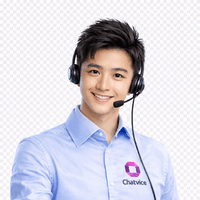
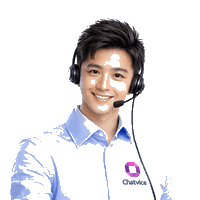
Update button styles and improve background removal functionality
Update UI elements with gradient animations, fix image template sizes, and enhance the background removal API for better error handling and model compatibility.

Replit-Commit-Author: Agent
Replit-Commit-Session-Id: d37a22ac-a57e-4e91-8ef6-db2cbe8198c3
Replit-Commit-Checkpoint-Type: full_checkpoint
Replit-Commit-Event-Id: d9524092-deb6-4b20-bde3-1af81761abbf

diff --git a/client/src/pages/dashboard/widget.tsx b/client/src/pages/dashboard/widget.tsx
@@ -1081,26 +1081,38 @@ async function handleLogin() {
                                 Remove custom icon
                               </Button>
                               <div className="flex flex-wrap gap-2">
-                                <Button
-                                  variant="outline"
-                                  size="sm"
+                                <button
                                   onClick={() => handleFlipImage("horizontal")}
                                   disabled={isProcessingImage}
                                   data-testid="button-flip-horizontal"
+                                  className="relative inline-flex items-center justify-center px-3 py-1.5 text-xs font-medium text-white rounded-md overflow-hidden disabled:opacity-50 disabled:cursor-not-allowed group"
+                                  style={{
+                                    background: 'linear-gradient(135deg, #7c3aed 0%, #a855f7 50%, #7c3aed 100%)',
+                                    backgroundSize: '200% 200%',
+                                    animation: 'gradient-shift 3s ease infinite',
+                                  }}
                                 >
-                                  {isProcessingImage ? <Loader2 className="w-3 h-3 animate-spin mr-1" /> : <ArrowUpRight className="w-3 h-3 mr-1 -scale-x-100" />}
-                                  Flip H
-                                </Button>
-                                <Button
-                                  variant="outline"
-                                  size="sm"
+                                  <span className="relative z-10 flex items-center">
+                                    {isProcessingImage ? <Loader2 className="w-3 h-3 animate-spin mr-1" /> : <ArrowUpRight className="w-3 h-3 mr-1 -scale-x-100" />}
+                                    Flip Horizontal
+                                  </span>
+                                </button>
+                                <button
                                   onClick={() => handleFlipImage("vertical")}
                                   disabled={isProcessingImage}
                                   data-testid="button-flip-vertical"
+                                  className="relative inline-flex items-center justify-center px-3 py-1.5 text-xs font-medium text-white rounded-md overflow-hidden disabled:opacity-50 disabled:cursor-not-allowed group"
+                                  style={{
+                                    background: 'linear-gradient(135deg, #7c3aed 0%, #a855f7 50%, #7c3aed 100%)',
+                                    backgroundSize: '200% 200%',
+                                    animation: 'gradient-shift 3s ease infinite',
+                                  }}
                                 >
-                                  {isProcessingImage ? <Loader2 className="w-3 h-3 animate-spin mr-1" /> : <ArrowUpRight className="w-3 h-3 mr-1 -scale-y-100" />}
-                                  Flip V
-                                </Button>
+                                  <span className="relative z-10 flex items-center">
+                                    {isProcessingImage ? <Loader2 className="w-3 h-3 animate-spin mr-1" /> : <ArrowUpRight className="w-3 h-3 mr-1 -scale-y-100" />}
+                                    Flip Vertical
+                                  </span>
+                                </button>
                                 <Button
                                   variant="outline"
                                   size="sm"
@@ -1111,19 +1123,25 @@ async function handleLogin() {
                                   {isProcessingImage ? <Loader2 className="w-3 h-3 animate-spin mr-1" /> : <ImageIcon className="w-3 h-3 mr-1" />}
                                   To WebP
                                 </Button>
-                                <Button
-                                  variant="outline"
-                                  size="sm"
+                                <button
                                   onClick={handleRemoveBackground}
                                   disabled={isRemovingBg || (bgRemovalStatus !== null && bgRemovalStatus.limit >= 0 && bgRemovalStatus.used >= bgRemovalStatus.limit)}
                                   data-testid="button-remove-bg"
                                   title={bgRemovalStatus ? `${bgRemovalStatus.used}/${bgRemovalStatus.limit} used this month` : "Remove background"}
+                                  className="relative inline-flex items-center justify-center px-3 py-1.5 text-xs font-medium text-white rounded-md overflow-hidden disabled:opacity-50 disabled:cursor-not-allowed group"
+                                  style={{
+                                    background: 'linear-gradient(135deg, #7c3aed 0%, #ec4899 50%, #7c3aed 100%)',
+                                    backgroundSize: '200% 200%',
+                                    animation: 'gradient-shift 3s ease infinite',
+                                  }}
                                 >
-                                  {isRemovingBg ? <Loader2 className="w-3 h-3 animate-spin mr-1" /> : <Frame className="w-3 h-3 mr-1" />}
-                                  Remove BG {bgRemovalStatus && bgRemovalStatus.limit > 0 && (
-                                    <span className="text-[10px] opacity-70 ml-1">({bgRemovalStatus.limit - bgRemovalStatus.used})</span>
-                                  )}
-                                </Button>
+                                  <span className="relative z-10 flex items-center">
+                                    {isRemovingBg ? <Loader2 className="w-3 h-3 animate-spin mr-1" /> : <Frame className="w-3 h-3 mr-1" />}
+                                    Remove Background {bgRemovalStatus && bgRemovalStatus.limit > 0 && (
+                                      <span className="text-[10px] opacity-70 ml-1">({bgRemovalStatus.limit - bgRemovalStatus.used})</span>
+                                    )}
+                                  </span>
+                                </button>
                               </div>
                               {bgRemovalStatus && bgRemovalStatus.limit === 0 && (
                                 <p className="text-xs text-amber-600 dark:text-amber-400">
@@ -1148,7 +1166,7 @@ async function handleLogin() {
                       {/* Icon Templates Section */}
                       <div className="pt-3 border-t">
                         <Label className="text-sm font-medium mb-2 block">Choose from Templates</Label>
-                        <div className="grid grid-cols-5 gap-3">
+                        <div className="flex flex-wrap gap-3">
                           {[
                             { id: 'male-cs-blue-shirt', name: 'CS Blue Shirt' },
                             { id: 'male-cs-suit', name: 'CS Suit' },
@@ -1167,11 +1185,12 @@ async function handleLogin() {
                               key={template.id}
                               type="button"
                               className={cn(
-                                "relative aspect-square rounded-lg overflow-hidden border-2 transition-all w-full",
+                                "relative rounded-lg overflow-hidden border-2 transition-all flex-shrink-0",
                                 config.iconUrl === `/icon-templates/${template.id}.png`
                                   ? "border-primary ring-2 ring-primary/30"
                                   : "border-muted hover:border-primary/50"
                               )}
+                              style={{ width: '80px', height: '80px' }}
                               onClick={() => setConfig({ ...config, iconUrl: `/icon-templates/${template.id}.png` })}
                               title={template.name}
                               data-testid={`button-template-${template.id}`}
@@ -1519,17 +1538,18 @@ async function handleLogin() {
 
                       <div className="space-y-2">
                         <Label className="text-sm">Or Choose Avatar</Label>
-                        <div className="grid grid-cols-4 gap-3">
+                        <div className="flex flex-wrap gap-3">
                           {[1, 2, 3, 4, 5, 6, 7, 8].map((num) => (
                             <button
                               key={num}
                               type="button"
                               onClick={() => setConfig({ ...config, agentPhotoUrl: `/avatars/avatar-${num}.jpg` })}
-                              className={`relative aspect-square rounded-lg overflow-hidden border-2 transition-all hover:opacity-80 active:scale-95 w-full ${
+                              className={`relative rounded-lg overflow-hidden border-2 transition-all hover:opacity-80 active:scale-95 flex-shrink-0 ${
                                 config.agentPhotoUrl === `/avatars/avatar-${num}.jpg` 
                                   ? 'border-primary ring-2 ring-primary/30' 
                                   : 'border-muted hover:border-muted-foreground/50'
                               }`}
+                              style={{ width: '80px', height: '80px' }}
                               data-testid={`button-avatar-${num}`}
                             >
                               <img

diff --git a/server/routes.ts b/server/routes.ts
@@ -3794,7 +3794,7 @@ Sitemap: ${baseUrl}/sitemap.xml`;
       }
 
       const response = await ai.models.generateContent({
-        model: "gemini-2.5-flash-image",
+        model: "gemini-2.0-flash-exp",
         contents: [
           {
             role: "user",
@@ -3806,21 +3806,23 @@ Sitemap: ${baseUrl}/sitemap.xml`;
                 },
               },
               {
-                text: "Remove the background from this image completely. Make the background fully transparent (alpha = 0). Keep only the main subject/object with clean, smooth edges. Return only the processed image with transparent background.",
+                text: "Remove the background from this image. Output a PNG image with transparent background. Keep only the main subject with clean edges.",
               },
             ],
           },
         ],
         config: {
-          responseModalities: [Modality.TEXT, Modality.IMAGE],
+          responseModalities: [Modality.IMAGE],
         },
       });
 
       const candidate = response.candidates?.[0];
-      const imagePart = candidate?.content?.parts?.find((part: any) => part.inlineData);
+      const parts = candidate?.content?.parts || [];
+      const imagePart = parts.find((part: any) => part.inlineData);
 
       if (!imagePart?.inlineData?.data) {
-        return res.status(500).json({ error: "AI could not process the image" });
+        console.error("Background removal - no image in response:", JSON.stringify(response, null, 2));
+        return res.status(500).json({ error: "No image returned", details: "AI model did not return an image. Please try a different image." });
       }
 
       const resultMimeType = imagePart.inlineData.mimeType || "image/png";

diff --git a/client/src/index.css b/client/src/index.css
@@ -893,6 +893,18 @@ html {
   animation: gradient-x 3s ease infinite;
 }
 
+@keyframes gradient-shift {
+  0% {
+    background-position: 0% 50%;
+  }
+  50% {
+    background-position: 100% 50%;
+  }
+  100% {
+    background-position: 0% 50%;
+  }
+}
+
 .liquid-glass-tab[data-state="active"]::after {
   content: '';
   position: absolute;
